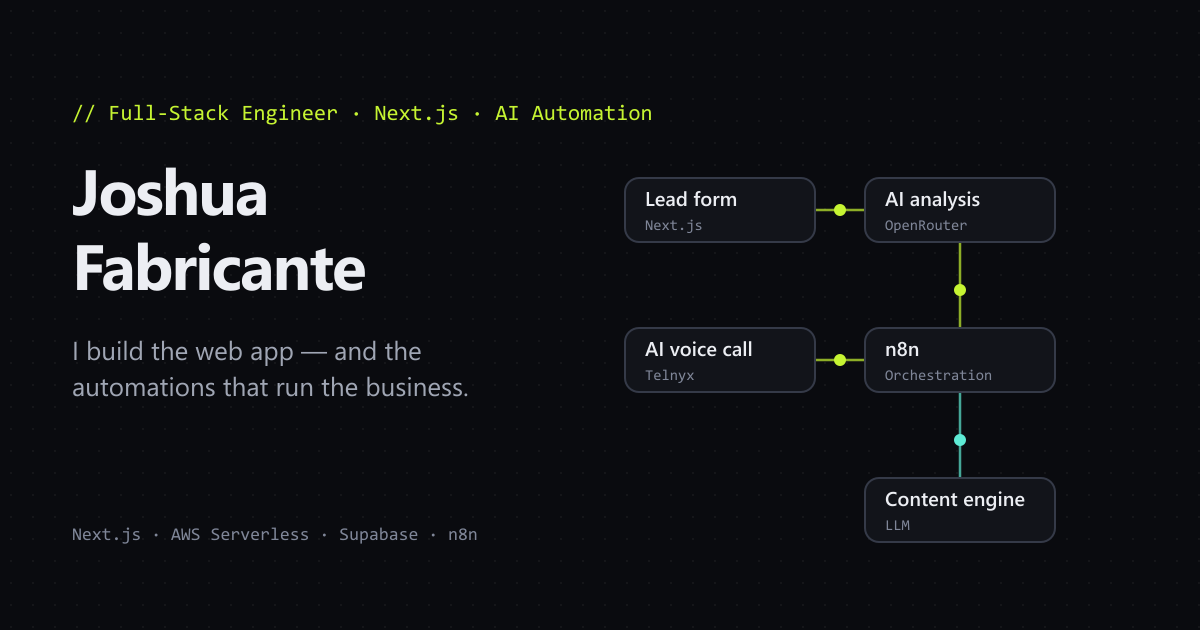
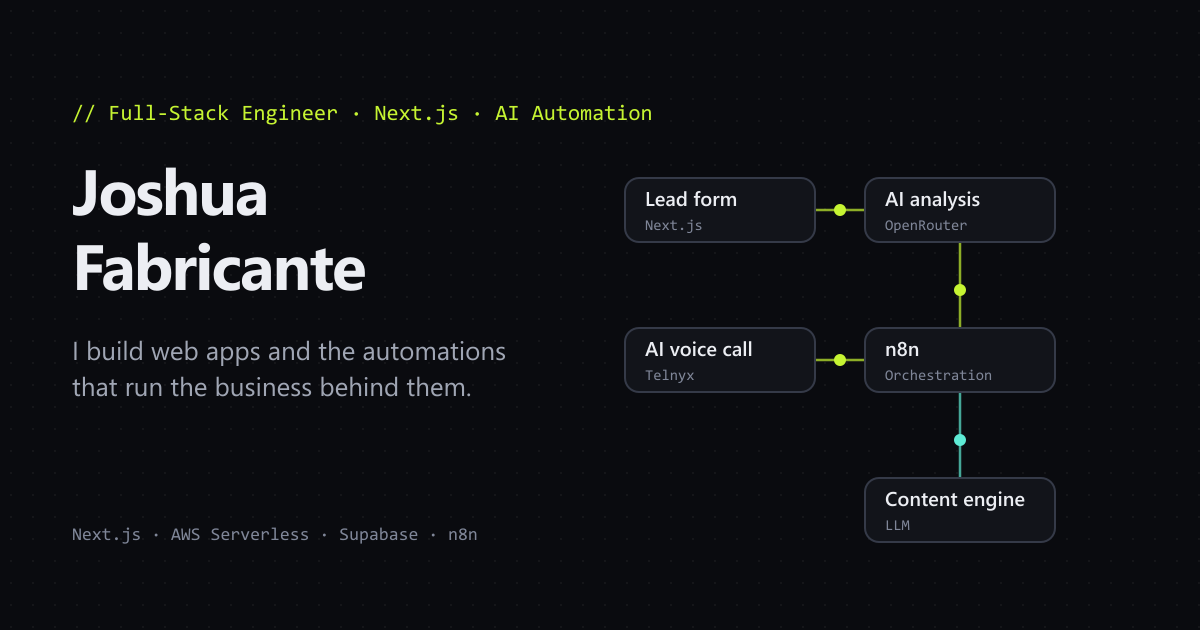
Rewrites site copy to read more naturally

Changed region(s): [[0.0617, 0.6032, 0.4008, 0.6333], [0.1233, 0.5429, 0.4317, 0.573]]

diff --git a/data/projects.ts b/data/projects.ts
@@ -113,14 +113,14 @@ export const projects: Project[] = [
     featured: true,
     client: "Credit CRB",
     outcome:
-      "One source video or PDF in → a full set of blog, article and social drafts out, each with one-click approve/reject.",
+      "Turns one video or PDF into a full set of blog, article and social drafts, each with its own approve and reject links.",
     summary:
       "An n8n system that turns one long-form source into a reviewed, versioned set of channel-ready drafts, then generates hero images and queues them for publishing once approved.",
     contributions: [
-      "A 71-node intake-to-generation workflow: form upload → text extraction → AI fact extraction → master content → per-asset generation",
+      "A 71-node workflow that takes a form upload, extracts the text, pulls out key facts with an LLM, writes master content and then generates each asset",
       "A validation retry ladder of up to 3 attempts per asset",
       "Each draft is emailed with its own Approve / Reject links",
-      "Client revisions by replying to the email — a Gmail trigger regenerates and versions the draft",
+      "Clients can ask for revisions by replying to the email. A Gmail trigger regenerates the draft and saves it as a new version",
       "Approval triggers a second workflow for hero-image generation and the publish queue",
       "Idempotency: a draft_id (job__type__seq) join key prevents double approvals",
     ],
@@ -145,7 +145,7 @@ export const projects: Project[] = [
     kind: "automation",
     featured: true,
     client: "Credit CRB",
-    outcome: "Tag a list in the CRM → an AI voice agent calls every lead, 50 at a time, and logs every outcome.",
+    outcome: "Tag a list in the CRM and an AI voice agent calls every lead, 50 at a time, logging how each call went.",
     summary:
       "An n8n + Telnyx dialer that drains a GoHighLevel-fed queue in concurrent batches, with a distributed lock, call polling and per-lead outcome logging.",
     contributions: [
@@ -159,7 +159,7 @@ export const projects: Project[] = [
     results: [
       "50 concurrent AI calls per batch",
       "Active calls polled every 30s; next batch starts only when the line is clear",
-      "Number warm-up ramp: 50 → 100 → 250 → 500 → 1k → 2k calls/day",
+      "Number warm-up plan: 50, 100, 250, 500, 1k, then 2k calls a day",
     ],
     stack: ["n8n", "telnyx", "gohighlevel", "webhooks"],
     flowId: "ai-dialer",
@@ -168,7 +168,7 @@ export const projects: Project[] = [
       problem:
         "Sales had lists of leads in the CRM and not enough hours to call them. The dialer had to call everyone, never double-dial, survive errors, and protect the phone numbers' reputation.",
       notes: [
-        "Planned a call ramp-up to warm new numbers (50 → 100 → 250 → 500 → 1k → 2k/day), so carriers don't flag them as spam.",
+        "I planned a gradual ramp-up for new numbers (50, 100, 250, 500, 1k, then 2k calls a day) so carriers don't flag them as spam.",
       ],
     },
   },
@@ -330,7 +330,7 @@ export const projects: Project[] = [
     client: "Personal",
     outcome: "Hobby car-rental platform exploring Next.js, MUI and Supabase.",
     summary:
-      "A car rental platform for Iligan City — a personal hobby project exploring Next.js with Material UI and Supabase as the backend and database.",
+      "A car rental platform for Iligan City. It's a personal hobby project where I'm trying out Next.js with Material UI, with Supabase as the backend and database.",
     contributions: [
       "Full-stack development with Next.js and Supabase (auth, database, storage)",
       "UI implementation using the Material UI (MUI) component library",
@@ -347,7 +347,7 @@ export const projects: Project[] = [
     title: "Podcast Outreach System",
     kind: "automation",
     client: "Credit CRB",
-    outcome: "Pitches 129 fit-ranked podcasts on autopilot and flags the ones that say yes.",
+    outcome: "Pitches a list of 129 podcasts, ranked by fit, and flags the hosts who reply with interest.",
     summary:
       "A weekday sender with +4d and +6d follow-ups, a reply/bounce watcher, GoHighLevel tagging and tasks, and alerts on interested replies.",
     contributions: [
@@ -365,11 +365,11 @@ export const projects: Project[] = [
     title: "AI Video & Asset Pipeline",
     kind: "automation",
     client: "Credit CRB",
-    outcome: "Generated stills and clips, quality-gated by AI vision, assembled into voiced videos.",
+    outcome: "Generates images and clips, checks them with AI vision, and assembles them into narrated videos.",
     summary:
       "Higgsfield stills pass a fail-closed Claude vision rules check and are auto-tagged into a clip library, then assembled with Json2Video and ElevenLabs voiceover.",
     contributions: [
-      "Claude vision “fail-closed” rules check on generated stills (no lettering, logos or cartoons)",
+      "A Claude vision check on every generated image that rejects anything with lettering, logos or cartoon styles",
       "Auto-tagging into a reusable clip library",
       "Json2Video assembly with ElevenLabs voiceover",
       "Tested Kling and Minimax video models",
@@ -384,7 +384,7 @@ export const projects: Project[] = [
     outcome: "creditcrb.com load time cut from ~11s to 2–3s.",
     summary: "Audited the company site and removed about 20 unused plugins.",
     contributions: ["Performance audit of creditcrb.com", "Removed ~20 unused plugins"],
-    results: ["Load time ~11s → 2–3s"],
+    results: ["Load time cut from about 11s to 2–3s"],
     // TODO(Joshua): confirm the platform (WordPress?) so the right tool can be linked.
     stack: [],
     link: "https://creditcrb.com",
@@ -394,9 +394,9 @@ export const projects: Project[] = [
     title: "Ops Automations",
     kind: "automation",
     client: "Credit CRB",
-    outcome: "Small automations that take daily admin off the team's plate.",
+    outcome: "Smaller automations that handle routine admin for the team.",
     summary:
-      "A Telegram AI agent, Fathom meeting notes → Gmail, a document-upload intake flow, and outbound-call booking and logging.",
+      "A Telegram AI agent, Fathom meeting notes sent to Gmail, a document-upload intake flow, and booking and logging for outbound calls.",
     contributions: [
       "Telegram AI agent",
       "Fathom meeting notes delivered to Gmail",
@@ -410,14 +410,14 @@ export const projects: Project[] = [
     title: "This site",
     kind: "web-app",
     client: "Personal",
-    outcome: "Next 16 static export, CI to GitHub Pages, and n8n → Telegram visit alerts.",
+    outcome: "A static Next 16 site deployed by GitHub Actions, with Telegram alerts for visits sent through n8n.",
     summary:
       "The portfolio you're reading: a statically exported Next.js 16 site deployed by GitHub Actions, with an n8n webhook that pings Telegram on visits and contact clicks.",
     contributions: [
       "Next.js 16 App Router static export with Tailwind v4",
       "GitHub Actions: lint, type-check, build and deploy to Pages",
-      "n8n webhook → Telegram visit and contact-click alerts",
-      "Hand-built SVG workflow replays — no diagram library",
+      "n8n webhook that sends visit and contact-click alerts to Telegram",
+      "Workflow replays drawn in plain SVG, without a diagram library",
     ],
     stack: ["nextjs", "react", "typescript", "tailwind", "github-actions", "n8n", "telegram", "webhooks"],
     link: "https://github.com/Irrelevantmofo/portfolio",

diff --git a/app/page.tsx b/app/page.tsx
@@ -46,8 +46,8 @@ export default function Home() {
           index="02"
           eyebrow="Featured work"
           id="work-title"
-          title="Four systems, start to finish."
-          intro="Two production web apps and two automation systems — each with the problem, what I built, the architecture and the results."
+          title="Four projects, written up in detail."
+          intro="Two web apps and two automation systems I built and run in production. Each write-up covers the problem, what I built, the architecture and the results."
         />
         <div className="grid gap-5 md:grid-cols-2">
           {featuredProjects.map((p, i) => (
@@ -67,8 +67,8 @@ export default function Home() {
             index="03"
             eyebrow="Automation Lab"
             id="lab-title"
-            title="Press run. Watch a real workflow execute."
-            intro="Simplified, hand-built replays of n8n workflows I run in production — queues, locks, retry ladders and human-in-the-loop approvals. Demo data only."
+            title="Replays of workflows I run in production"
+            intro="These are simplified versions of real n8n workflows, redrawn by hand. Press Run to step through an execution and follow the log. The data is made up, but the logic matches the real thing."
           />
           <AutomationLab flows={lab} />
         </div>
@@ -80,13 +80,13 @@ export default function Home() {
             index="04"
             eyebrow="Toolbox"
             id="toolbox-title"
-            title="Every tool, linked to the work that uses it."
+            title="Tools I use, and where I've used them"
           />
           <Toolbox />
         </section>
 
         <section id="more-work" aria-labelledby="more-work-title" className="mx-auto max-w-6xl scroll-mt-20 px-4 py-24 sm:px-6">
-          <SectionHeading index="05" eyebrow="More work" id="more-work-title" title="Sites, apps and automations." />
+          <SectionHeading index="05" eyebrow="More work" id="more-work-title" title="More projects" />
           <WorkGrid
             hideFeaturedByDefault
             toolNames={toolNames}
@@ -103,7 +103,7 @@ export default function Home() {
 
       <section id="experience" aria-labelledby="experience-title" className="border-t border-line py-24">
         <div className="mx-auto max-w-4xl px-4 sm:px-6">
-          <SectionHeading index="06" eyebrow="Experience" id="experience-title" title="Where I've been building." />
+          <SectionHeading index="06" eyebrow="Experience" id="experience-title" title="Experience" />
           <Timeline entries={timeline} />
         </div>
       </section>
@@ -111,18 +111,18 @@ export default function Home() {
       <section id="about" aria-labelledby="about-title" className="mx-auto max-w-6xl px-4 py-24 sm:px-6">
         <div className="grid gap-12 lg:grid-cols-[1.4fr_1fr]">
           <div>
-            <SectionHeading index="07" eyebrow="About" id="about-title" title="Rough idea in. Fast, reliable, measurable out." />
+            <SectionHeading index="07" eyebrow="About" id="about-title" title="About me" />
             <div className="space-y-4 text-base leading-relaxed text-muted">
               <p>
                 I&apos;m Joshua, a full-stack engineer from Iligan City, Philippines, with an IT foundation from MSU-IIT
                 and {stats.years}+ years building for the web.
               </p>
               <p>
-                I&apos;ve shipped corporate sites and SaaS apps for agencies and international clients (largely in
-                Germany), and today I build AI-powered tools and automation systems — from credit-analysis apps to
-                voice-AI dialers — for a US credit &amp; business-funding firm.
+                I&apos;ve shipped corporate sites and SaaS apps for agencies and international clients, mostly in
+                Germany. These days I also build AI tools and automation systems for a US credit and business-funding
+                firm, from a credit report analyzer to an AI voice dialer.
               </p>
-              <p>I like taking a rough idea or prototype and turning it into something fast, reliable and measurable.</p>
+              <p>I enjoy taking a rough idea or a half-working prototype and turning it into something fast that keeps working.</p>
             </div>
           </div>
           <aside className="rounded-2xl border border-line bg-surface p-6">
@@ -156,10 +156,10 @@ export default function Home() {
         <div className="dot-grid pointer-events-none absolute inset-0 [mask-image:radial-gradient(ellipse_at_center,black_10%,transparent_65%)]" />
         <div className="relative mx-auto max-w-3xl px-4 py-28 text-center sm:px-6">
           <p className="mb-4 font-mono text-xs text-accent" aria-hidden="true">
-            {"// 08 — Contact"}
+            {"// 08 · Contact"}
           </p>
           <h2 id="contact-title" className="mb-5 text-4xl font-semibold tracking-tight text-balance text-fg sm:text-5xl">
-            Have an idea, prototype or slow system? Let&apos;s build it.
+            Have an idea, a prototype or a slow system? Let&apos;s talk.
           </h2>
           <p className="mx-auto mb-10 max-w-xl text-muted">
             {person.availability} · {person.timezone}.

diff --git a/components/Pillars.tsx b/components/Pillars.tsx
@@ -86,7 +86,7 @@ const pillars = [
   {
     title: "Web Apps",
     stack: "Next.js · React · TypeScript",
-    body: "Production front ends and full-stack apps — CMS-driven corporate sites, SaaS portals and AI-powered tools that people actually use.",
+    body: "Front ends and full-stack apps in production: corporate sites on a headless CMS, SaaS portals and AI-powered tools.",
     proof: [
       { href: "/work/credit-score-simulator/", label: "Credit Score Simulator" },
       { href: "/#more-work", label: "5 Next.js + Sanity sites" },
@@ -96,14 +96,14 @@ const pillars = [
   {
     title: "Cloud Backends",
     stack: "AWS Serverless · Supabase · Postgres · Prisma · GraphQL",
-    body: "APIs and data layers that scale without babysitting servers: Lambda + DynamoDB, Supabase auth/storage, typed GraphQL.",
+    body: "APIs and data layers that scale without managing servers: Lambda and DynamoDB, Supabase auth and storage, typed GraphQL.",
     proof: [{ href: "/work/nessy-application/", label: "Nessy Cloud" }],
     Illo: CloudIllo,
   },
   {
     title: "AI & Automation",
     stack: "n8n · LLMs · Voice AI · CRM",
-    body: "Pipelines that call leads, write content and keep the CRM in sync — with locks, retries and logs so they hold up in production.",
+    body: "Pipelines that call leads, write content and keep the CRM in sync. I build in locks, retries and logging so they keep running when something fails.",
     proof: [
       { href: "/work/ai-dialer/", label: "AI Outbound Dialer" },
       { href: "/work/content-engine/", label: "Content Engine" },
@@ -119,7 +119,7 @@ export default function Pillars() {
         index="01"
         eyebrow="What I build"
         id="what-i-build-title"
-        title="One engineer for the app, the backend and the automations around it."
+        title="I work across the front end, the backend and the automation layer."
       />
       <div className="grid gap-4 md:grid-cols-3">
         {pillars.map(({ title, stack, body, proof, Illo }) => (

diff --git a/data/flows.ts b/data/flows.ts
@@ -55,7 +55,7 @@ export const flows: Flow[] = [
   {
     id: "ai-dialer",
     title: "AI Outbound Dialer",
-    blurb: "GHL tag → queue → lock → 50 concurrent AI calls → poll every 30s → loop until the queue is empty.",
+    blurb: "A GHL tag queues the leads and a lock stops runs from overlapping. The dialer calls 50 at a time and checks every 30s until the queue is empty.",
     projectSlug: "ai-dialer",
     viewBox: VB,
     nodes: [
@@ -101,7 +101,7 @@ export const flows: Flow[] = [
   {
     id: "content-engine",
     title: "Content Repurposing Engine",
-    blurb: "One source in → fact extraction → per-asset drafts, validated with a 3-attempt retry ladder, approved by email.",
+    blurb: "Pulls facts from one source, drafts each asset, retries failed checks up to 3 times, then emails the drafts for approval.",
     projectSlug: "content-engine",
     viewBox: VB,
     nodes: [
@@ -147,7 +147,7 @@ export const flows: Flow[] = [
   {
     id: "podcast-outreach",
     title: "Podcast Outreach",
-    blurb: "Weekday sender with +4d / +6d follow-ups, and a reply watcher that classifies, tags in GHL and alerts the owner.",
+    blurb: "Sends pitches on weekdays with follow-ups after 4 and 6 days. A reply watcher sorts the responses, tags them in GHL and alerts the owner.",
     projectSlug: "podcast-outreach",
     viewBox: VB,
     nodes: [
@@ -187,7 +187,7 @@ export const flows: Flow[] = [
   {
     id: "credit-analyzer",
     title: "Credit Report Analyzer",
-    blurb: "PDF in → parsed → AI metrics → simulator + roadmap → lead synced to the CRM.",
+    blurb: "The report is parsed, an LLM extracts the key metrics, the simulator and roadmap are built from them, and the lead is synced to the CRM.",
     projectSlug: "credit-score-simulator",
     viewBox: VB,
     nodes: [

diff --git a/components/hero/Hero.tsx b/components/hero/Hero.tsx
@@ -4,7 +4,7 @@ import CopyEmailButton from "@/components/CopyEmailButton";
 import { asset } from "@/lib/asset";
 import { links, person, stats } from "@/data/site";
 
-const headline = "I build the web app — and the automations that run the business behind it.";
+const headline = "I build web apps and the automations that run the business behind them.";
 
 const secondaryBtn =
   "inline-flex items-center gap-2 rounded-lg border border-line-strong px-5 py-3 text-sm font-medium text-fg transition-colors hover:border-fg/40 hover:bg-surface";
@@ -35,8 +35,8 @@ export default function Hero() {
           </h1>
 
           <p className="fade-up mt-6 max-w-xl text-lg leading-relaxed text-muted" style={{ "--d": "350ms" } as React.CSSProperties}>
-            {stats.years}+ years shipping production apps with React, Next.js, AWS Serverless and Supabase — plus
-            n8n pipelines and AI agents that call leads, write content and sync your CRM.
+            {stats.years}+ years shipping production apps with React, Next.js, AWS Serverless and Supabase. I also
+            build n8n pipelines and AI agents that call leads, write content and keep your CRM up to date.
           </p>
 
           <div className="fade-up mt-9 flex flex-wrap items-center gap-3" style={{ "--d": "450ms" } as React.CSSProperties}>

diff --git a/app/work/[slug]/page.tsx b/app/work/[slug]/page.tsx
@@ -27,7 +27,7 @@ export async function generateMetadata({ params }: Props): Promise<Metadata> {
     description: p.outcome,
     alternates: { canonical: `work/${p.slug}/` },
     openGraph: {
-      title: `${p.title} — case study`,
+      title: `${p.title} (case study)`,
       description: p.outcome,
       url: `work/${p.slug}/`,
       images: [{ url: "og.png", width: 1200, height: 630 }],
@@ -153,7 +153,7 @@ export default async function CaseStudyPage({ params }: Props) {
             // No confirmed metrics yet — say what shipped instead of inventing numbers.
             // TODO(Joshua): add confirmed impact numbers for this project, if any.
             <p className="max-w-3xl text-base leading-relaxed text-muted">
-              Live in production{p.link ? " — see it running at the link above" : ""}. {p.outcome}
+              It&apos;s live in production{p.link ? ", and you can try it at the link above" : ""}. I don&apos;t have numbers I can share for this one yet.
             </p>
           )}
         </Block>

diff --git a/app/layout.tsx b/app/layout.tsx
@@ -21,7 +21,7 @@ const jetbrains = JetBrains_Mono({
   preload: false,
 });
 
-const title = "Joshua Fabricante — Full-Stack Next.js & AI Automation Engineer";
+const title = "Joshua Fabricante | Full-Stack Next.js & AI Automation Engineer";
 const description =
   "Full-stack Next.js engineer shipping production web apps on AWS Serverless and Supabase, plus the n8n pipelines and AI automation that run the business.";
 
@@ -37,7 +37,7 @@ export const metadata: Metadata = {
     url: "./",
     siteName: "Joshua Fabricante",
     type: "website",
-    images: [{ url: "og.png", width: 1200, height: 630, alt: "Joshua Fabricante — Full-Stack & AI Automation" }],
+    images: [{ url: "og.png", width: 1200, height: 630, alt: "Joshua Fabricante, Full-Stack Next.js & AI Automation Engineer" }],
   },
   twitter: { card: "summary_large_image", title, description, images: ["og.png"] },
 };

diff --git a/app/work/page.tsx b/app/work/page.tsx
@@ -10,7 +10,7 @@ import { tools, usedIn } from "@/data/tools";
 export const metadata: Metadata = {
   title: "All work",
   description:
-    "Every project: Next.js web apps, Sanity corporate sites, AWS Serverless SaaS and n8n / AI automation systems — filterable by stack.",
+    "All my projects: Next.js web apps, Sanity corporate sites, AWS Serverless SaaS and n8n / AI automation systems. Filter by type or tool.",
   alternates: { canonical: "work/" },
 };
 
@@ -26,7 +26,6 @@ export default function WorkPage() {
       <PageViewTracker source="work-visit" />
       <SectionHeading
         as="h1"
-        index="—"
         eyebrow="All work"
         title="Everything I've shipped."
         intro="Web apps, websites and automation systems for agencies, clients and Credit CRB. Filter by type or by tool."

diff --git a/components/work/WorkGrid.tsx b/components/work/WorkGrid.tsx
@@ -132,7 +132,7 @@ export default function WorkGrid({ items, toolNames, hideFeaturedByDefault = fal
           <>
             Showing {visible.length} project{visible.length === 1 ? "" : "s"} using{" "}
             <span className="font-medium text-accent">{toolNames[tool]}</span>
-            {visible.length === 0 && " — in production use, no public project yet"}.{" "}
+            .{visible.length === 0 && " I've used it in production, but there's no public project to show yet."}{" "}
             <button type="button" onClick={() => setTool(null)} className="text-fg underline underline-offset-4">
               Clear filter
             </button>

diff --git a/components/SectionHeading.tsx b/components/SectionHeading.tsx
@@ -1,7 +1,7 @@
 import type { ReactNode } from "react";
 
 interface SectionHeadingProps {
-  index: string; // "03"
+  index?: string; // "03"
   eyebrow: string;
   title: ReactNode;
   intro?: ReactNode;
@@ -13,7 +13,7 @@ export default function SectionHeading({ index, eyebrow, title, intro, id, as: T
   return (
     <div className="mb-10 max-w-2xl">
       <p className="mb-3 font-mono text-xs tracking-wide text-accent" aria-hidden="true">
-        {`// ${index} — ${eyebrow}`}
+        {index ? `// ${index} · ${eyebrow}` : `// ${eyebrow}`}
       </p>
       <Tag
         id={id}

diff --git a/data/site.ts b/data/site.ts
@@ -60,7 +60,7 @@ export const timeline: TimelineEntry[] = [
     role: "Full-stack Next.js developer",
     org: "Agency work (Germany)",
     summary:
-      "Next.js + Sanity corporate sites and SaaS for German clients — Danaher, DFK Group, Vita Core, Tourismus Damp, First Automotive Parts and Nessy Cloud.",
+      "Next.js + Sanity corporate sites and SaaS for German clients, including Danaher, DFK Group, Vita Core, Tourismus Damp, First Automotive Parts and Nessy Cloud.",
     highlights: ["Next.js + Sanity", "i18n", "GraphQL + Prisma", "AWS Serverless"],
   },
   {

diff --git a/components/ScoreGaugeDemo.tsx b/components/ScoreGaugeDemo.tsx
@@ -90,7 +90,7 @@ export default function ScoreGaugeDemo() {
         </div>
       </div>
       <figcaption className="mt-5 border-t border-line pt-3 font-mono text-[11px] text-subtle">
-        Demo data — not financial advice. The real simulator works from the visitor&apos;s parsed credit report.
+        Demo data, not financial advice. The real simulator works from the visitor&apos;s own credit report.
       </figcaption>
     </figure>
   );
